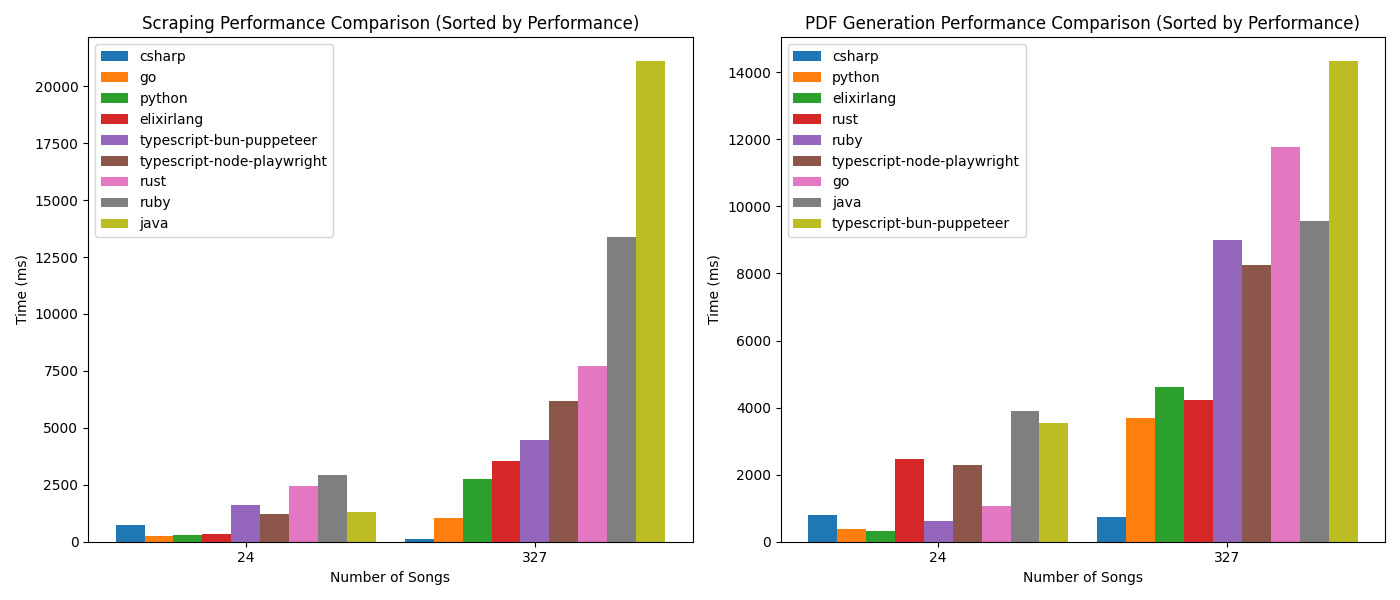
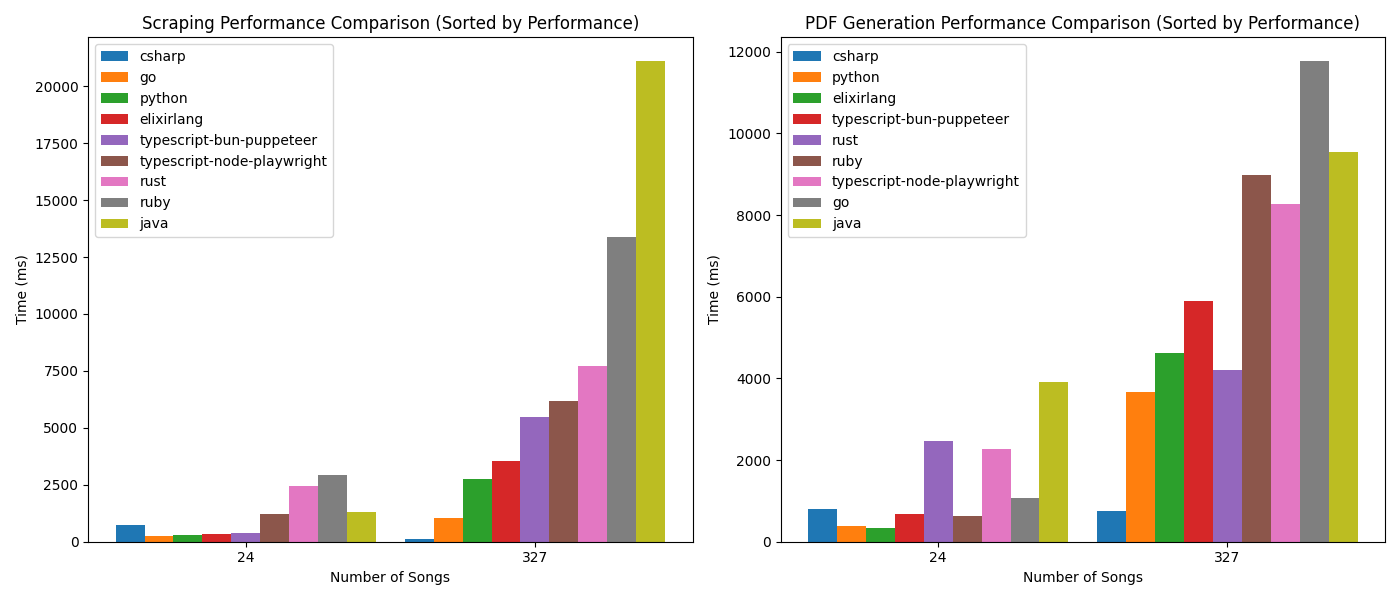
adds puppeteer parameters to bun

diff --git a/languages/typescript-bun-puppeteer/src/pdf.ts b/languages/typescript-bun-puppeteer/src/pdf.ts
@@ -1,11 +1,18 @@
 import puppeteer from 'puppeteer';
 
 export async function htmlToPdf(html: string, pdfPath: string) {
-    const browser = await puppeteer.launch({
-        args: ['--no-sandbox', '--disable-setuid-sandbox'],
-    });
-    const page = await browser.newPage();
-    await page.setContent(html);
-    await page.pdf({ path: pdfPath, format: 'A4' });
-    await browser.close();
+  const browser = await puppeteer.launch({
+    headless: true,
+    waitForInitialPage: false,
+    args: [
+      '--no-sandbox',
+      '--disable-setuid-sandbox',
+      '--disable-gpu',
+      '--disable-dev-shm-usage',
+    ],
+  });
+  const page = await browser.newPage();
+  await page.setContent(html);
+  await page.pdf({ path: pdfPath, format: 'A4' });
+  await browser.close();
 }
